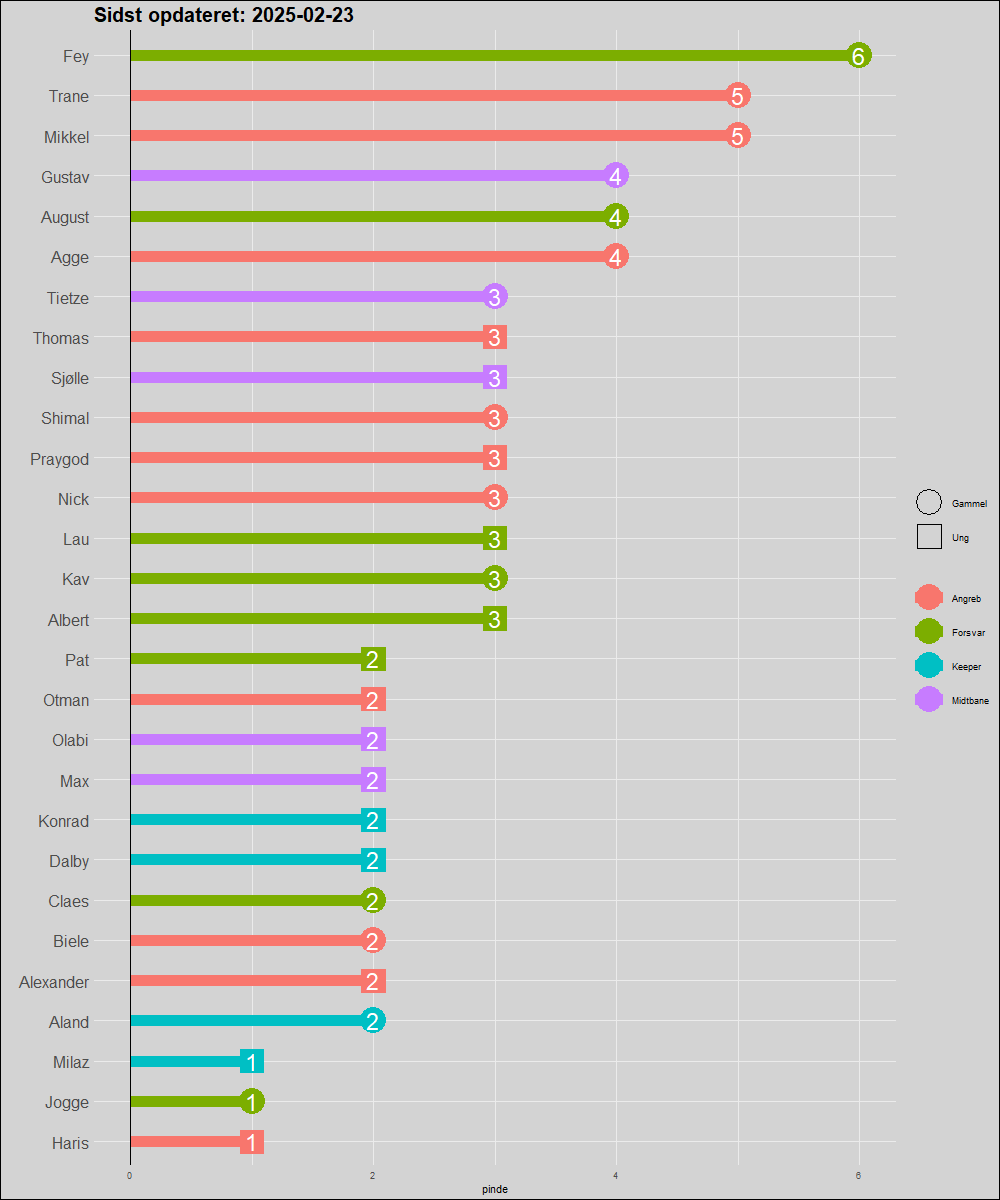
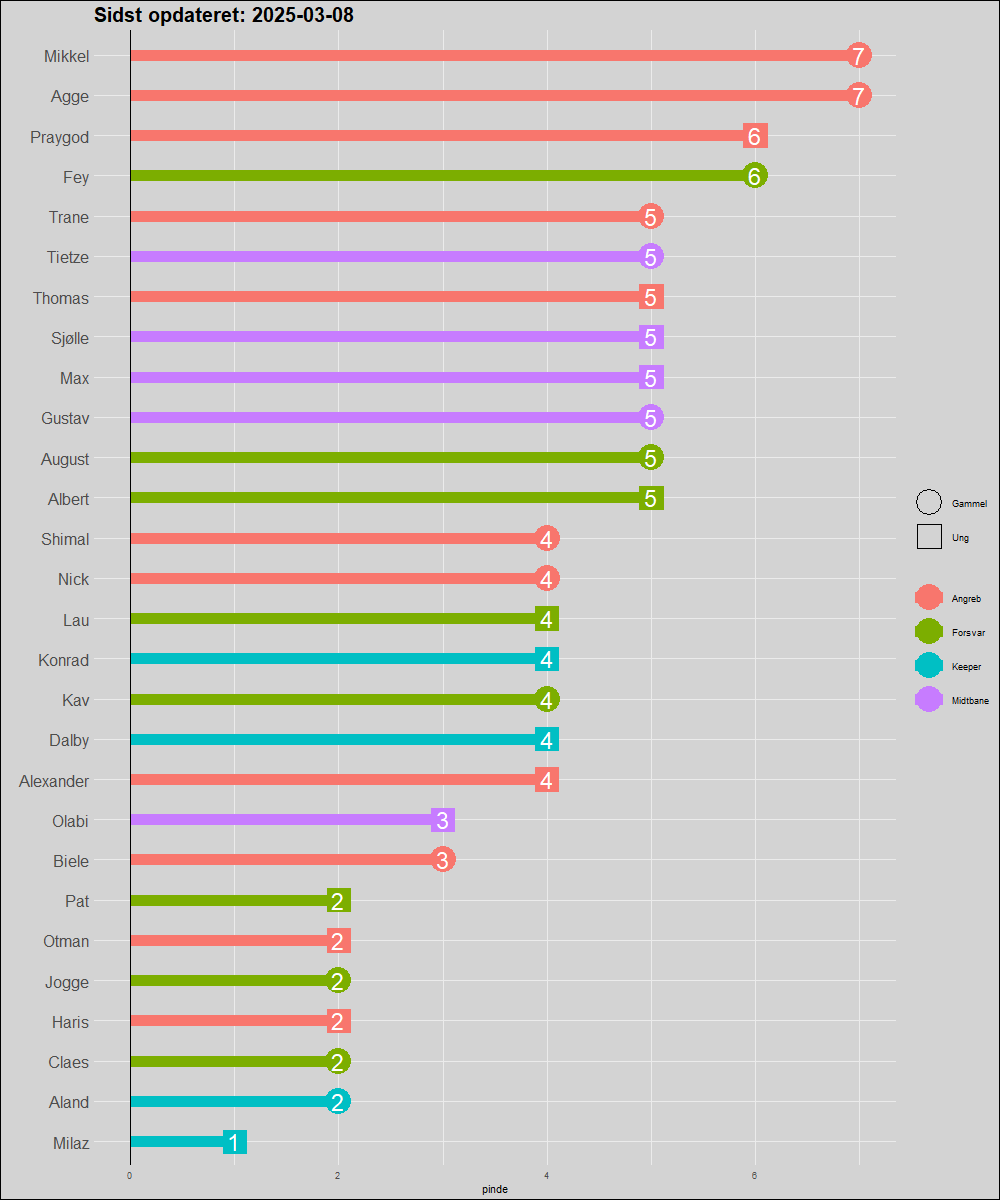
s

Changed region(s): [[0.124, 0.0, 0.868, 0.9867], [0.031, 0.0308, 0.093, 0.8325], [0.031, 0.8633, 0.093, 0.9558]]

diff --git a/plots.md b/plots.md
@@ -207,6 +207,87 @@ Skud
 Gustav, Trane, Claes, Fey, Tietze, Pat, Thomas, Agge, Konrad
 </td>
 </tr>
+<tr>
+<td style="text-align:right;">
+10
+</td>
+<td style="text-align:left;">
+2025-02-24
+</td>
+<td style="text-align:left;">
+Skud
+</td>
+<td style="text-align:right;">
+1
+</td>
+<td style="text-align:right;">
+0
+</td>
+<td style="text-align:left;">
+Lau, Max, Olabi, Sjølle, Konrad, Praygod, Thomas, Alexander, NA
+</td>
+</tr>
+<tr>
+<td style="text-align:right;">
+11
+</td>
+<td style="text-align:left;">
+2025-02-25
+</td>
+<td style="text-align:left;">
+Interval
+</td>
+<td style="text-align:right;">
+0
+</td>
+<td style="text-align:right;">
+0
+</td>
+<td style="text-align:left;">
+Kav, Agge, Shimal, Albert, Mikkel, Tietze, Alexander, Max, Agge, Dalby
+</td>
+</tr>
+<tr>
+<td style="text-align:right;">
+12
+</td>
+<td style="text-align:left;">
+2025-02-27
+</td>
+<td style="text-align:left;">
+Interval
+</td>
+<td style="text-align:right;">
+0
+</td>
+<td style="text-align:right;">
+0
+</td>
+<td style="text-align:left;">
+Dalby, Jogge, Gustav, Tietze, Sjølle, Praygod, Thomas, Haris, Agge,
+Mikkel, NA, NA
+</td>
+</tr>
+<tr>
+<td style="text-align:right;">
+13
+</td>
+<td style="text-align:left;">
+2025-03-06
+</td>
+<td style="text-align:left;">
+Interval
+</td>
+<td style="text-align:right;">
+0
+</td>
+<td style="text-align:right;">
+0
+</td>
+<td style="text-align:left;">
+August, Nick, Biele, Albert, Max, Praygod, Konrad, NA
+</td>
+</tr>
 </tbody>
 </table>
 <table class="table table-striped">
